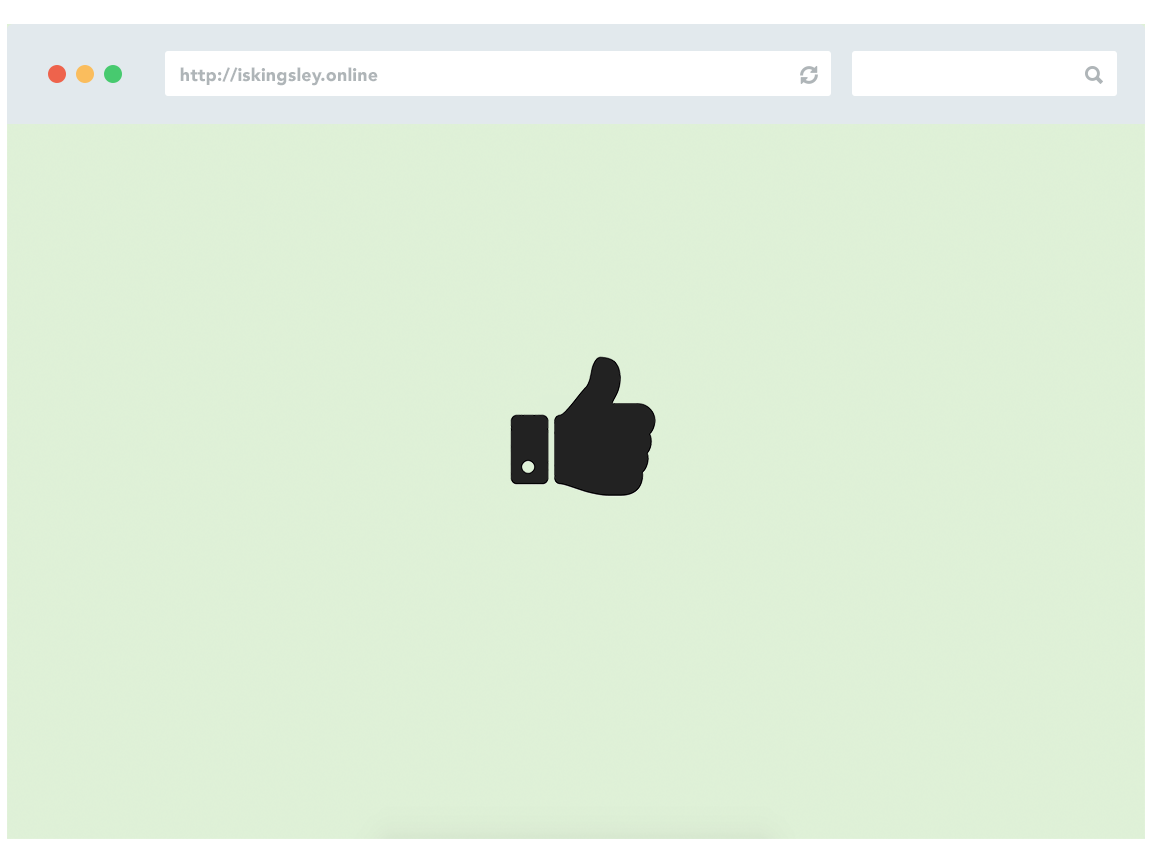
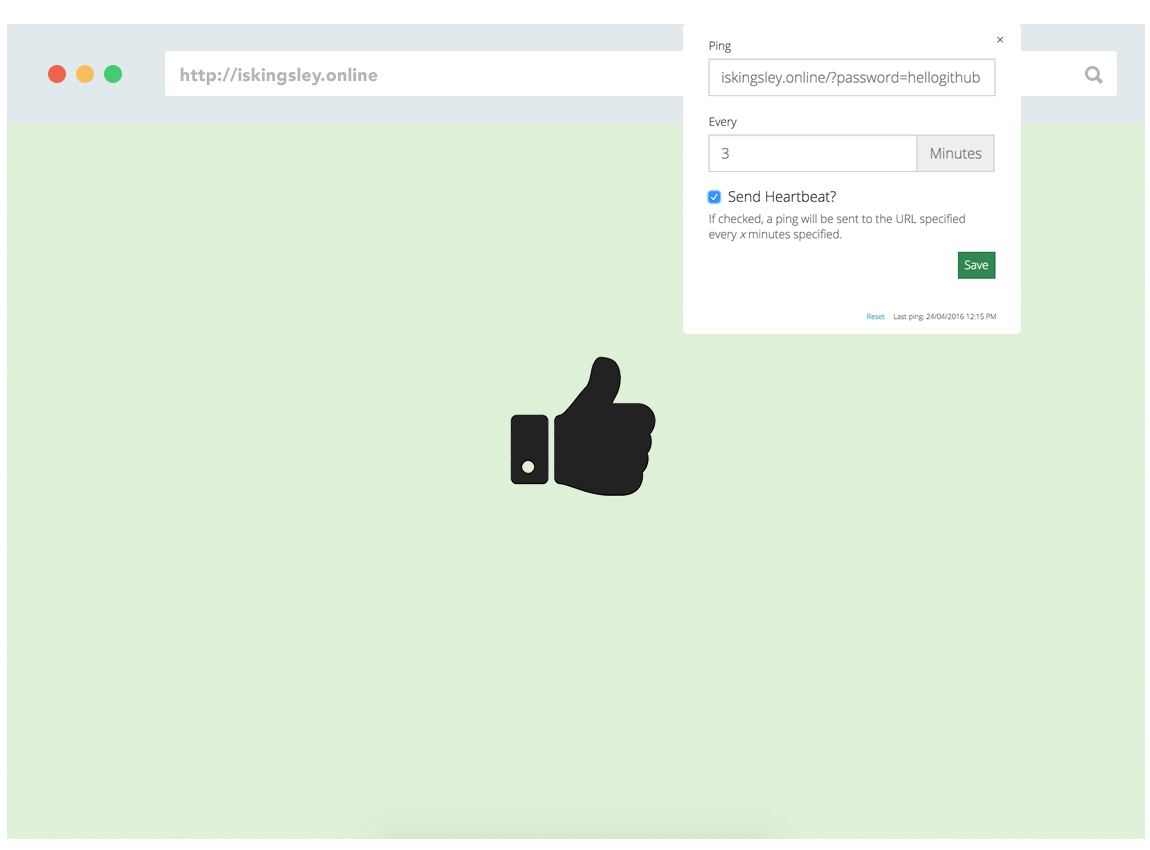
small edits

Changed region(s): [[0.5783, 0.0306, 0.913, 0.3976]]

diff --git a/README.md b/README.md
@@ -1,6 +1,6 @@
 # Are You Online?
 
-![Is kingsley online?](http://i.imgur.com/y6JwjAI.png "Is Kingsley Online?")
+![Is kingsley online?](http://i.imgur.com/1RjSV6p.png "Is Kingsley Online?")
 
 Do you work remotely? Are you in a different timezone? Do your colleagues know if you're online? Mine didn't, so I made this simple app to keep them updated.
 
@@ -11,10 +11,9 @@ To top it off, it's wrapped into a lovely OSX app so no awkawrd/complicated inst
 ## Installation
 ### OSX Application
   - Download the app for your OS from https://github.com/kingsloi/iskingsley.online/releases
-  - Move the unzipped `.app`/`.exe` file to your `/Applications` folder
-  - Run it
-  - It's windowless and menuless, and only appears in the tray. Look for the lightbulb
-  - Click Settings
+  - Unzip, run the `.dmg` installer
+  - Drag the app into your Applications folder
+  - It's windowless and menuless, and only appears in the tray. Look for the heartbeat/electrocardiogram
   - Set your URL endpoint and a interval to ping
 
 ### PHP Endpoint
@@ -32,9 +31,36 @@ _Using it? Share your site! Fork it, edit this readme, add your site/author, and
 - [http://isdavid.online](http://isdavid.online)
 
 ## Contributing
-   - Contributions are welcome!
-   - Pull down, edit, and submit a Pull Request
-   - [https://github.com/nwjs/nw.js](https://github.com/nwjs/nw.js) is used to pack the web app into OS apps. See src/build-command for how to build it
+   - Contributions are always welcome
+   - It's built with [Electron](http://electron.atom.io/)
+   - See below how to get up and running, edit & submit a pull request.
 
+### Getting Started
+```
+git clone https://github.com/szwacz/electron-boilerplate.git
+cd electron-boilerplate
+npm install
+npm start
+```
 ## License
-The code in this repo uses the MIT license, see our LICENSE file.
+The MIT License (MIT)
+
+Copyright (c) 2016 Kingsley Raspe
+
+Permission is hereby granted, free of charge, to any person obtaining a copy
+of this software and associated documentation files (the "Software"), to deal
+in the Software without restriction, including without limitation the rights
+to use, copy, modify, merge, publish, distribute, sublicense, and/or sell
+copies of the Software, and to permit persons to whom the Software is
+furnished to do so, subject to the following conditions:
+
+The above copyright notice and this permission notice shall be included in all
+copies or substantial portions of the Software.
+
+THE SOFTWARE IS PROVIDED "AS IS", WITHOUT WARRANTY OF ANY KIND, EXPRESS OR
+IMPLIED, INCLUDING BUT NOT LIMITED TO THE WARRANTIES OF MERCHANTABILITY,
+FITNESS FOR A PARTICULAR PURPOSE AND NONINFRINGEMENT. IN NO EVENT SHALL THE
+AUTHORS OR COPYRIGHT HOLDERS BE LIABLE FOR ANY CLAIM, DAMAGES OR OTHER
+LIABILITY, WHETHER IN AN ACTION OF CONTRACT, TORT OR OTHERWISE, ARISING FROM,
+OUT OF OR IN CONNECTION WITH THE SOFTWARE OR THE USE OR OTHER DEALINGS IN THE
+SOFTWARE.
